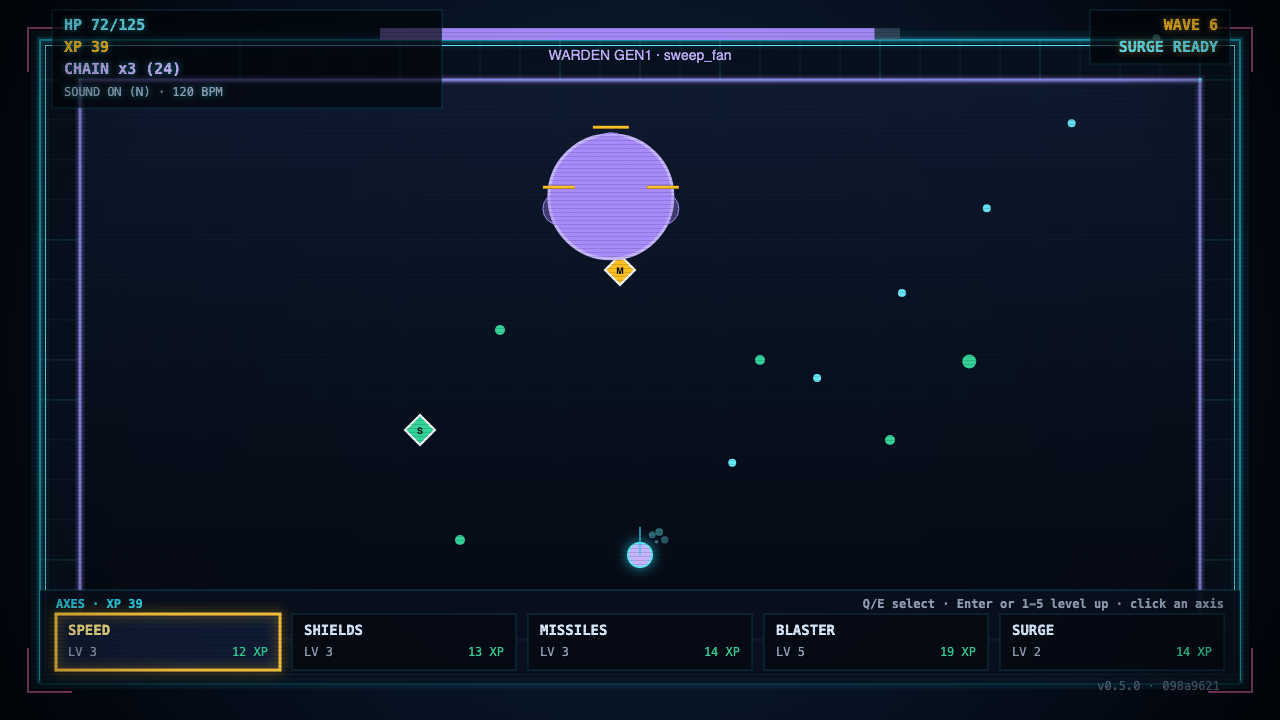
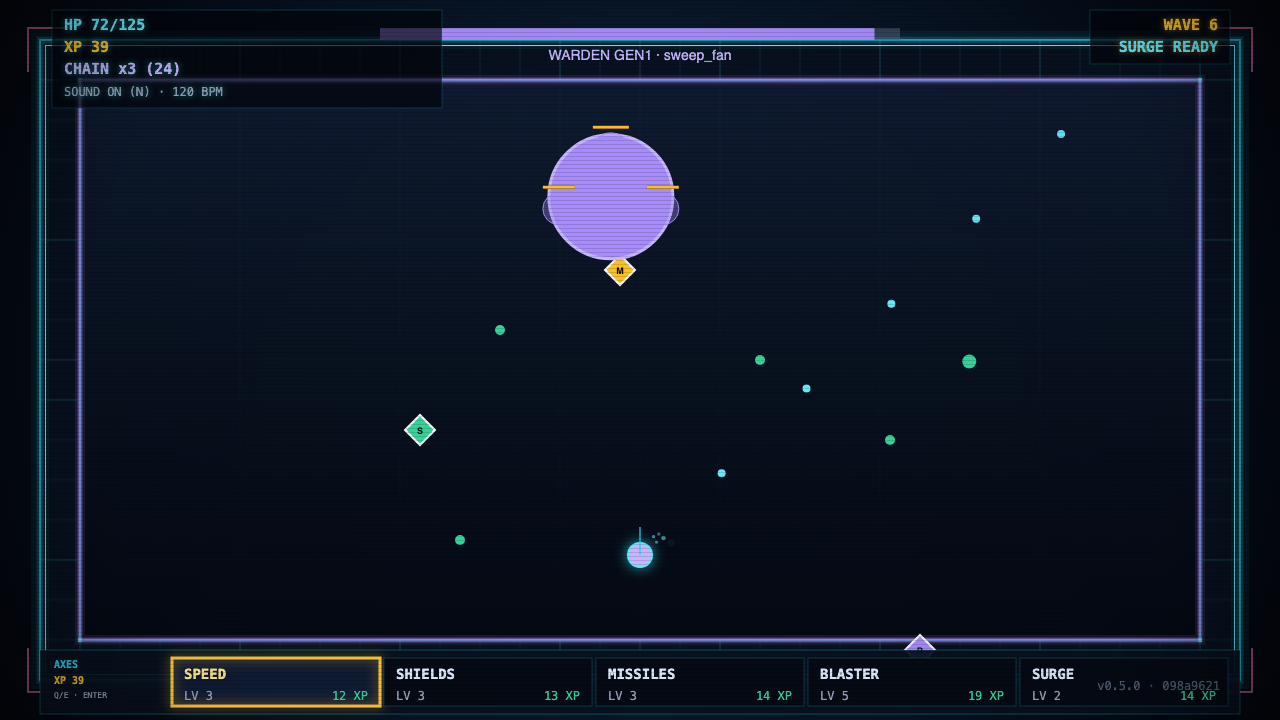
feat: update upgrade strip layout to avoid obscuring gameplay area and add corresponding tests

diff --git a/src/main.ts b/src/main.ts
@@ -788,19 +788,21 @@ function drawHud() {
   context.lineWidth = 1;
   context.strokeRect(panelX, panelY, UPGRADE_AXIS_LAYOUT.panelWidth, UPGRADE_AXIS_LAYOUT.panelHeight);
 
-  context.font = 'bold 12px monospace';
+  // Compact legend instead of a full-width header. This lets the strip live
+  // below the playable arena while keeping the upgrade controls discoverable.
+  context.textAlign = 'left';
+  context.font = 'bold 10px monospace';
   context.fillStyle = NEON.cyan;
-  context.fillText(`AXES · XP ${world.state.xp}`, panelX + 16, panelY + 18);
-  context.textAlign = 'right';
+  context.fillText('AXES', panelX + 14, panelY + 18);
+  context.fillStyle = NEON.amber;
+  context.fillText(`XP ${world.state.xp}`, panelX + 14, panelY + 34);
+  context.font = '8px monospace';
   context.fillStyle = NEON.textMuted;
   context.fillText(
-    state.gamepad.connected
-      ? 'D-pad select · A level up · B/RB surge'
-      : 'Q/E select · Enter or 1-5 level up · click an axis',
-    panelX + UPGRADE_AXIS_LAYOUT.panelWidth - 16,
-    panelY + 18,
+    state.gamepad.connected ? 'D-PAD · A' : 'Q/E · ENTER',
+    panelX + 14,
+    panelY + 48,
   );
-  context.textAlign = 'left';
 
   UPGRADE_AXIS_DEFINITIONS.forEach((definition, index) => {
     const x = UPGRADE_AXIS_LAYOUT.firstCardX + index * UPGRADE_AXIS_LAYOUT.cardStepX;

diff --git a/tests/unit/pointer.spec.ts b/tests/unit/pointer.spec.ts
@@ -32,4 +32,17 @@ describe('pointer mapping', () => {
     expect(upgradeAxisIndexAt(fifthAxis, 5)).toBe(4);
     expect(upgradeAxisIndexAt({ x: 10, y: 10 }, 5)).toBe(-1);
   });
+
+  it('keeps the upgrade strip below the playable arena and inside the canvas', () => {
+    const layout = UPGRADE_AXIS_LAYOUT;
+    const cardRight = layout.firstCardX + layout.cardStepX * 4 + layout.cardWidth;
+    const cardBottom = layout.firstCardY + layout.cardHeight;
+
+    // The lowest playable arena coordinate is y=640.
+    expect(layout.panelY).toBeGreaterThanOrEqual(640);
+    expect(layout.panelY + layout.panelHeight).toBeLessThanOrEqual(720);
+    expect(layout.firstCardY).toBeGreaterThanOrEqual(layout.panelY);
+    expect(cardBottom).toBeLessThanOrEqual(layout.panelY + layout.panelHeight);
+    expect(cardRight).toBeLessThanOrEqual(layout.panelX + layout.panelWidth);
+  });
 });

diff --git a/src/ui/pointer.ts b/src/ui/pointer.ts
@@ -24,16 +24,18 @@ export interface UpgradeAxisLayout {
 
 export type UpgradeCardLayout = UpgradeAxisLayout;
 
+// The lowest playable arena coordinate is y=640. Keep the upgrade strip below
+// that line so its panel never obscures player, enemy, or pickup sprites.
 export const UPGRADE_AXIS_LAYOUT: UpgradeAxisLayout = {
   panelX: 40,
-  panelY: 590,
+  panelY: 650,
   panelWidth: 1200,
-  panelHeight: 94,
-  firstCardX: 56,
-  firstCardY: 614,
-  cardWidth: 224,
-  cardHeight: 56,
-  cardStepX: 236,
+  panelHeight: 64,
+  firstCardX: 172,
+  firstCardY: 658,
+  cardWidth: 208,
+  cardHeight: 48,
+  cardStepX: 212,
 };
 
 /** Backwards-compatible alias for callers migrated from the card system. */
